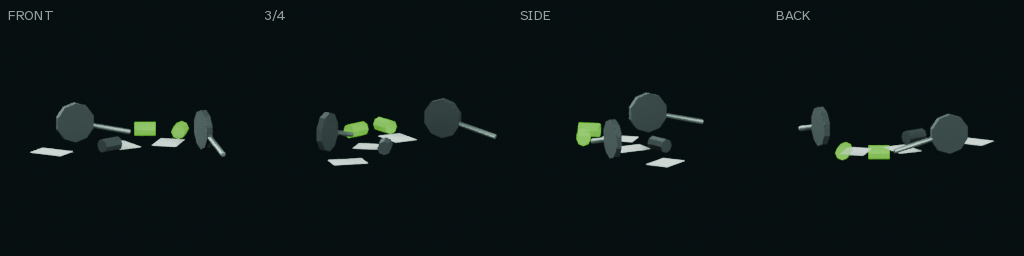
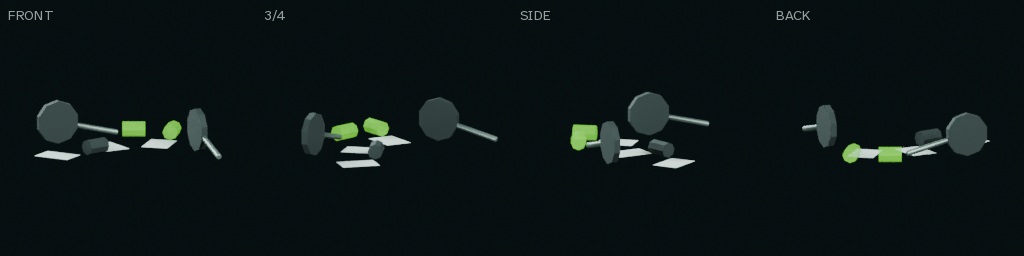
Centre the lab floor wreck so its turnaround frames cleanly
Claude-Session: https://claude.ai/code/session_012H4uhmvvkQfLFzrNbAoYsm

diff --git a/tools/assets/props_wreck_labs.py b/tools/assets/props_wreck_labs.py
@@ -78,7 +78,7 @@ def build_lab_floor_wreck() -> None:
         jar = p._cyl(f"Jar{i}", 0.06, 0.18, (0, 0, 0), m["fluid"] if glow else m["dark"], verts=8)
         jar.rotation_euler = (0, math.radians(90), math.radians(40 * i))
         jar.location = (x, y, 0.06)
-    for i, (x, y, turn) in enumerate(((-0.1, -0.05, 30), (0.3, 0.05, -15), (-0.7, -0.35, 60))):
+    for i, (x, y, turn) in enumerate(((-0.1, -0.05, 30), (0.3, 0.05, -15), (-0.5, -0.4, 60))):
         sheet = box(f"Sheet{i}", (0.21, 0.297, 0.002), (x, y, 0.002 + i * 0.002), m["paper"])
         sheet.rotation_euler = (0, 0, math.radians(turn))
     p._merge("LabFloorWreck")
